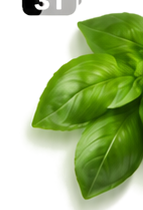
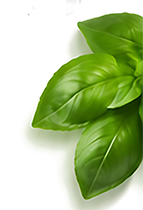
Corrige artefact basilic et panier mobile

diff --git a/app/commander/commander.module.css b/app/commander/commander.module.css
@@ -4,7 +4,19 @@
   min-height: 0 !important;
   height: auto !important;
   margin: 0 auto !important;
-  padding: 28px 14px calc(76px + env(safe-area-inset-bottom, 0px)) !important;
+  --sf-nav-height: 72px;
+  --sf-nav-bottom-gap: 12px;
+  --sf-fixed-gap: 8px;
+  --sf-cart-height: 54px;
+
+  padding:
+    28px 14px
+    calc(
+      var(--sf-nav-height) +
+      var(--sf-nav-bottom-gap) +
+      12px +
+      env(safe-area-inset-bottom, 0px)
+    ) !important;
   background: #fbfbf9 !important;
   box-sizing: border-box;
 }
@@ -149,6 +161,41 @@
   background: #fff3c9 !important;
 }
 
+
+.pageWithCart {
+  padding-bottom:
+    calc(
+      var(--sf-nav-height) +
+      var(--sf-nav-bottom-gap) +
+      var(--sf-fixed-gap) +
+      var(--sf-cart-height) +
+      18px +
+      env(safe-area-inset-bottom, 0px)
+    ) !important;
+}
+
+.page .cartDock {
+  position: fixed !important;
+  left: 50% !important;
+  right: auto !important;
+  bottom:
+    calc(
+      var(--sf-nav-height) +
+      var(--sf-nav-bottom-gap) +
+      var(--sf-fixed-gap) +
+      env(safe-area-inset-bottom, 0px)
+    ) !important;
+  z-index: 2990 !important;
+
+  width: calc(100% - 28px) !important;
+  max-width: 402px !important;
+  min-height: var(--sf-cart-height) !important;
+
+  margin: 0 !important;
+  transform: translateX(-50%) !important;
+  box-sizing: border-box !important;
+}
+
 @media (min-width: 391px) and (max-width: 395px) {
   .page {
     padding-left: 14px !important;
@@ -158,7 +205,26 @@
 
 @media (max-width: 380px) {
   .page {
-    padding: 24px 10px calc(76px + env(safe-area-inset-bottom, 0px)) !important;
+    padding:
+      24px 10px
+      calc(
+        var(--sf-nav-height) +
+        var(--sf-nav-bottom-gap) +
+        12px +
+        env(safe-area-inset-bottom, 0px)
+      ) !important;
+  }
+
+  .page.pageWithCart {
+    padding-bottom:
+      calc(
+        var(--sf-nav-height) +
+        var(--sf-nav-bottom-gap) +
+        var(--sf-fixed-gap) +
+        var(--sf-cart-height) +
+        18px +
+        env(safe-area-inset-bottom, 0px)
+      ) !important;
   }
 
   .intro {

diff --git a/app/commander/page.js b/app/commander/page.js
@@ -1602,7 +1602,11 @@ export default function Home() {
 
   return (
     <>
-      <main className={`container commander-modern ${styles.page}`}>
+      <main
+        className={`container commander-modern ${styles.page} ${
+          cartCount > 0 ? styles.pageWithCart : ""
+        }`}
+      >
         {!loadingSettings &&
           settings &&
           !serviceOpen && (
@@ -1840,7 +1844,7 @@ export default function Home() {
         {cartCount > 0 && (
           <Link
             href="/panier"
-            className="commander-cart-summary"
+            className={`commander-cart-summary ${styles.cartDock}`}
           >
             <div className="commander-cart-summary-left">
               <div className="commander-cart-summary-icon">
